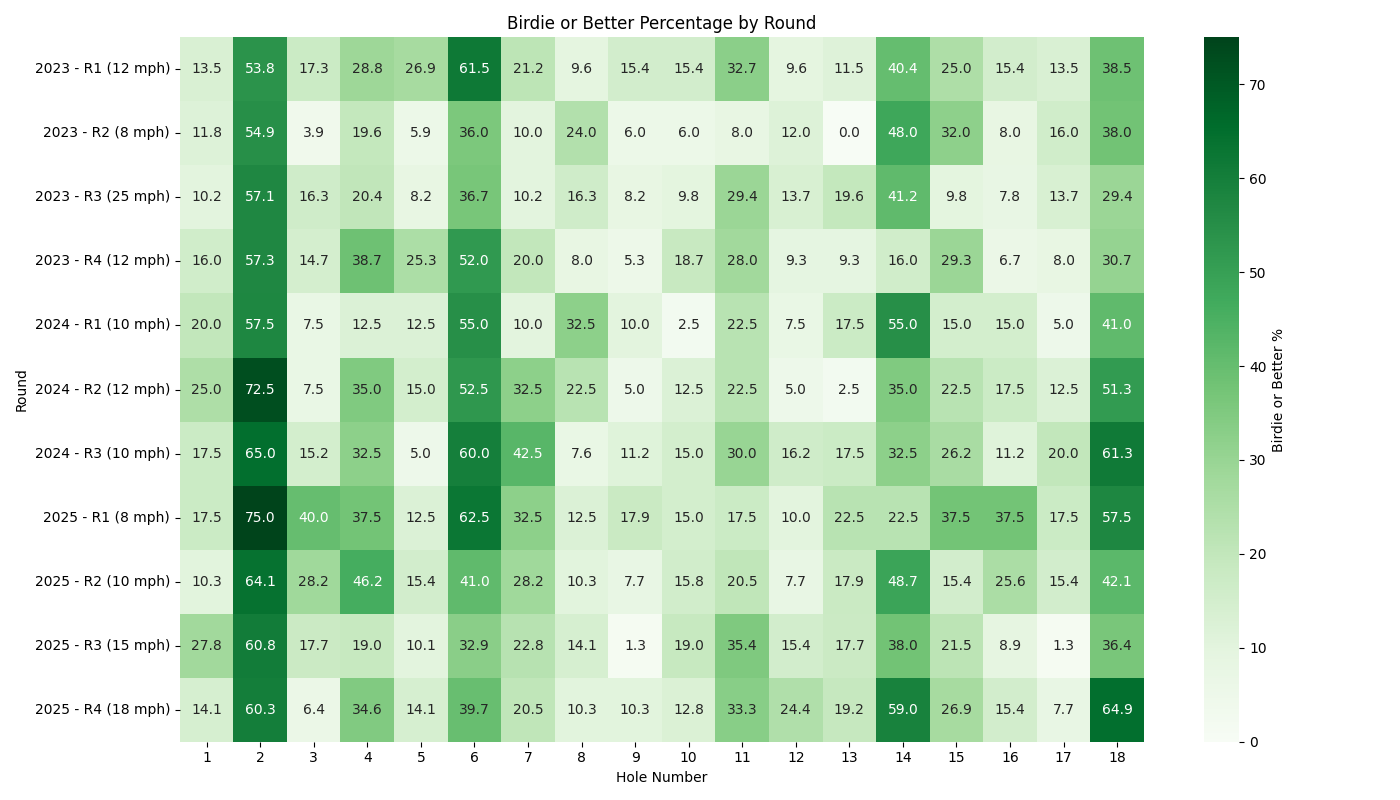
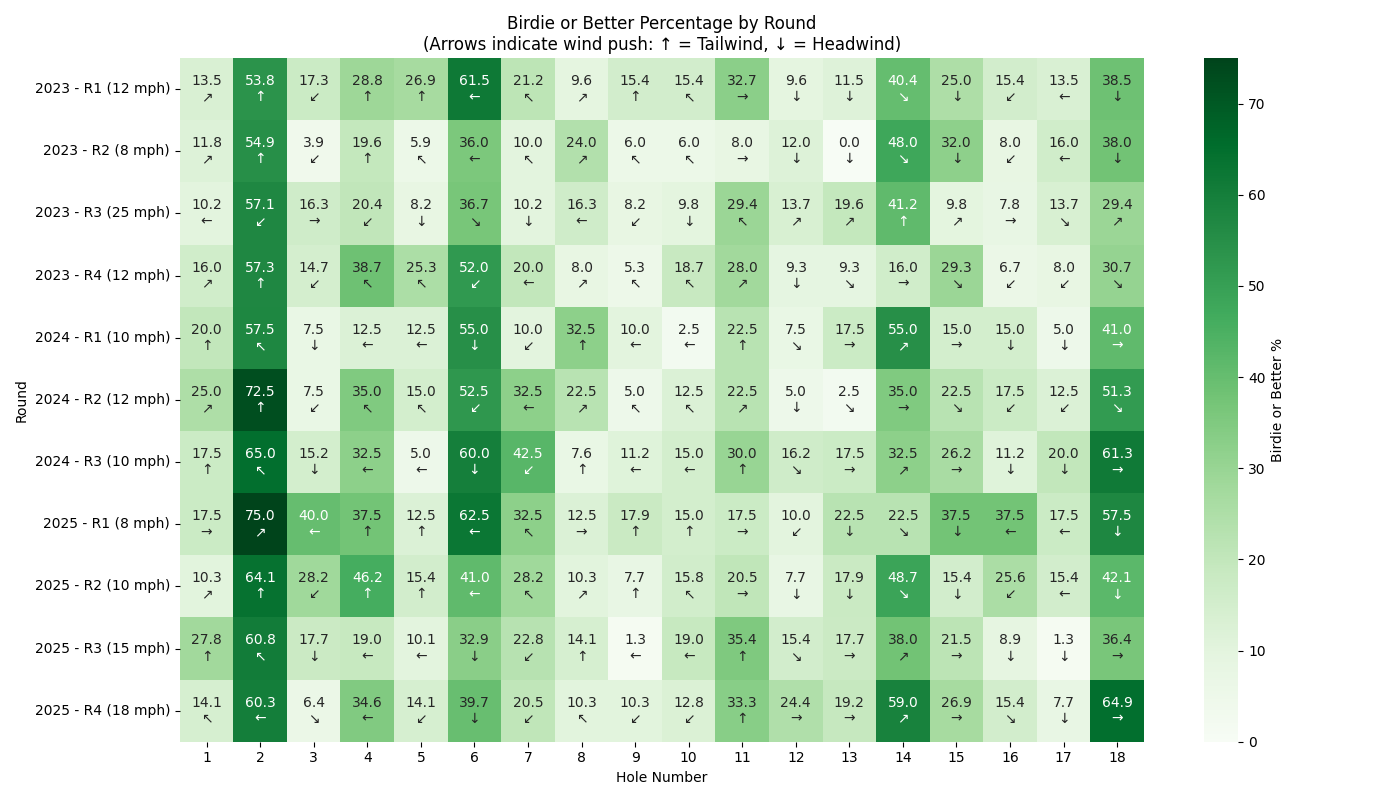
Added directional wind arrows (↑ for Tailwind, ↓ for Headwind, etc.) to the 'Birdie or Better %' and 'Bogey or Worse %' heatmaps. Updated `scrape_pebble.py` to calculate the wind push direction relative to each hole and render these indicators in the visualization cells.

diff --git a/scrape_pebble.py b/scrape_pebble.py
@@ -308,22 +308,28 @@ def generate_visualizations(df):
     plt.savefig("normalized_scoring_heatmap.png")
 
     # 3. Birdie or Better % Heatmap
+    df['Annot_Label_Birdie'] = df['Birdie_Better_Pct'].round(1).astype(str) + "\n" + df['Wind_Arrow']
     pivot_birdie = df.pivot(index="Year_Round", columns="Hole", values="Birdie_Better_Pct")
+    pivot_annot_birdie = df.pivot(index="Year_Round", columns="Hole", values="Annot_Label_Birdie")
+
     plt.figure(figsize=(14, 8))
-    sns.heatmap(pivot_birdie, cmap="Greens", annot=True, fmt=".1f",
+    sns.heatmap(pivot_birdie, cmap="Greens", annot=pivot_annot_birdie, fmt="",
                 cbar_kws={'label': 'Birdie or Better %'})
-    plt.title("Birdie or Better Percentage by Round")
+    plt.title("Birdie or Better Percentage by Round\n(Arrows indicate wind push: ↑ = Tailwind, ↓ = Headwind)")
     plt.xlabel("Hole Number")
     plt.ylabel("Round")
     plt.tight_layout()
     plt.savefig("birdie_better_heatmap.png")
 
     # 4. Bogey or Worse % Heatmap
+    df['Annot_Label_Bogey'] = df['Bogey_Worse_Pct'].round(1).astype(str) + "\n" + df['Wind_Arrow']
     pivot_bogey = df.pivot(index="Year_Round", columns="Hole", values="Bogey_Worse_Pct")
+    pivot_annot_bogey = df.pivot(index="Year_Round", columns="Hole", values="Annot_Label_Bogey")
+
     plt.figure(figsize=(14, 8))
-    sns.heatmap(pivot_bogey, cmap="Reds", annot=True, fmt=".1f",
+    sns.heatmap(pivot_bogey, cmap="Reds", annot=pivot_annot_bogey, fmt="",
                 cbar_kws={'label': 'Bogey or Worse %'})
-    plt.title("Bogey or Worse Percentage by Round")
+    plt.title("Bogey or Worse Percentage by Round\n(Arrows indicate wind push: ↑ = Tailwind, ↓ = Headwind)")
     plt.xlabel("Hole Number")
     plt.ylabel("Round")
     plt.tight_layout()
